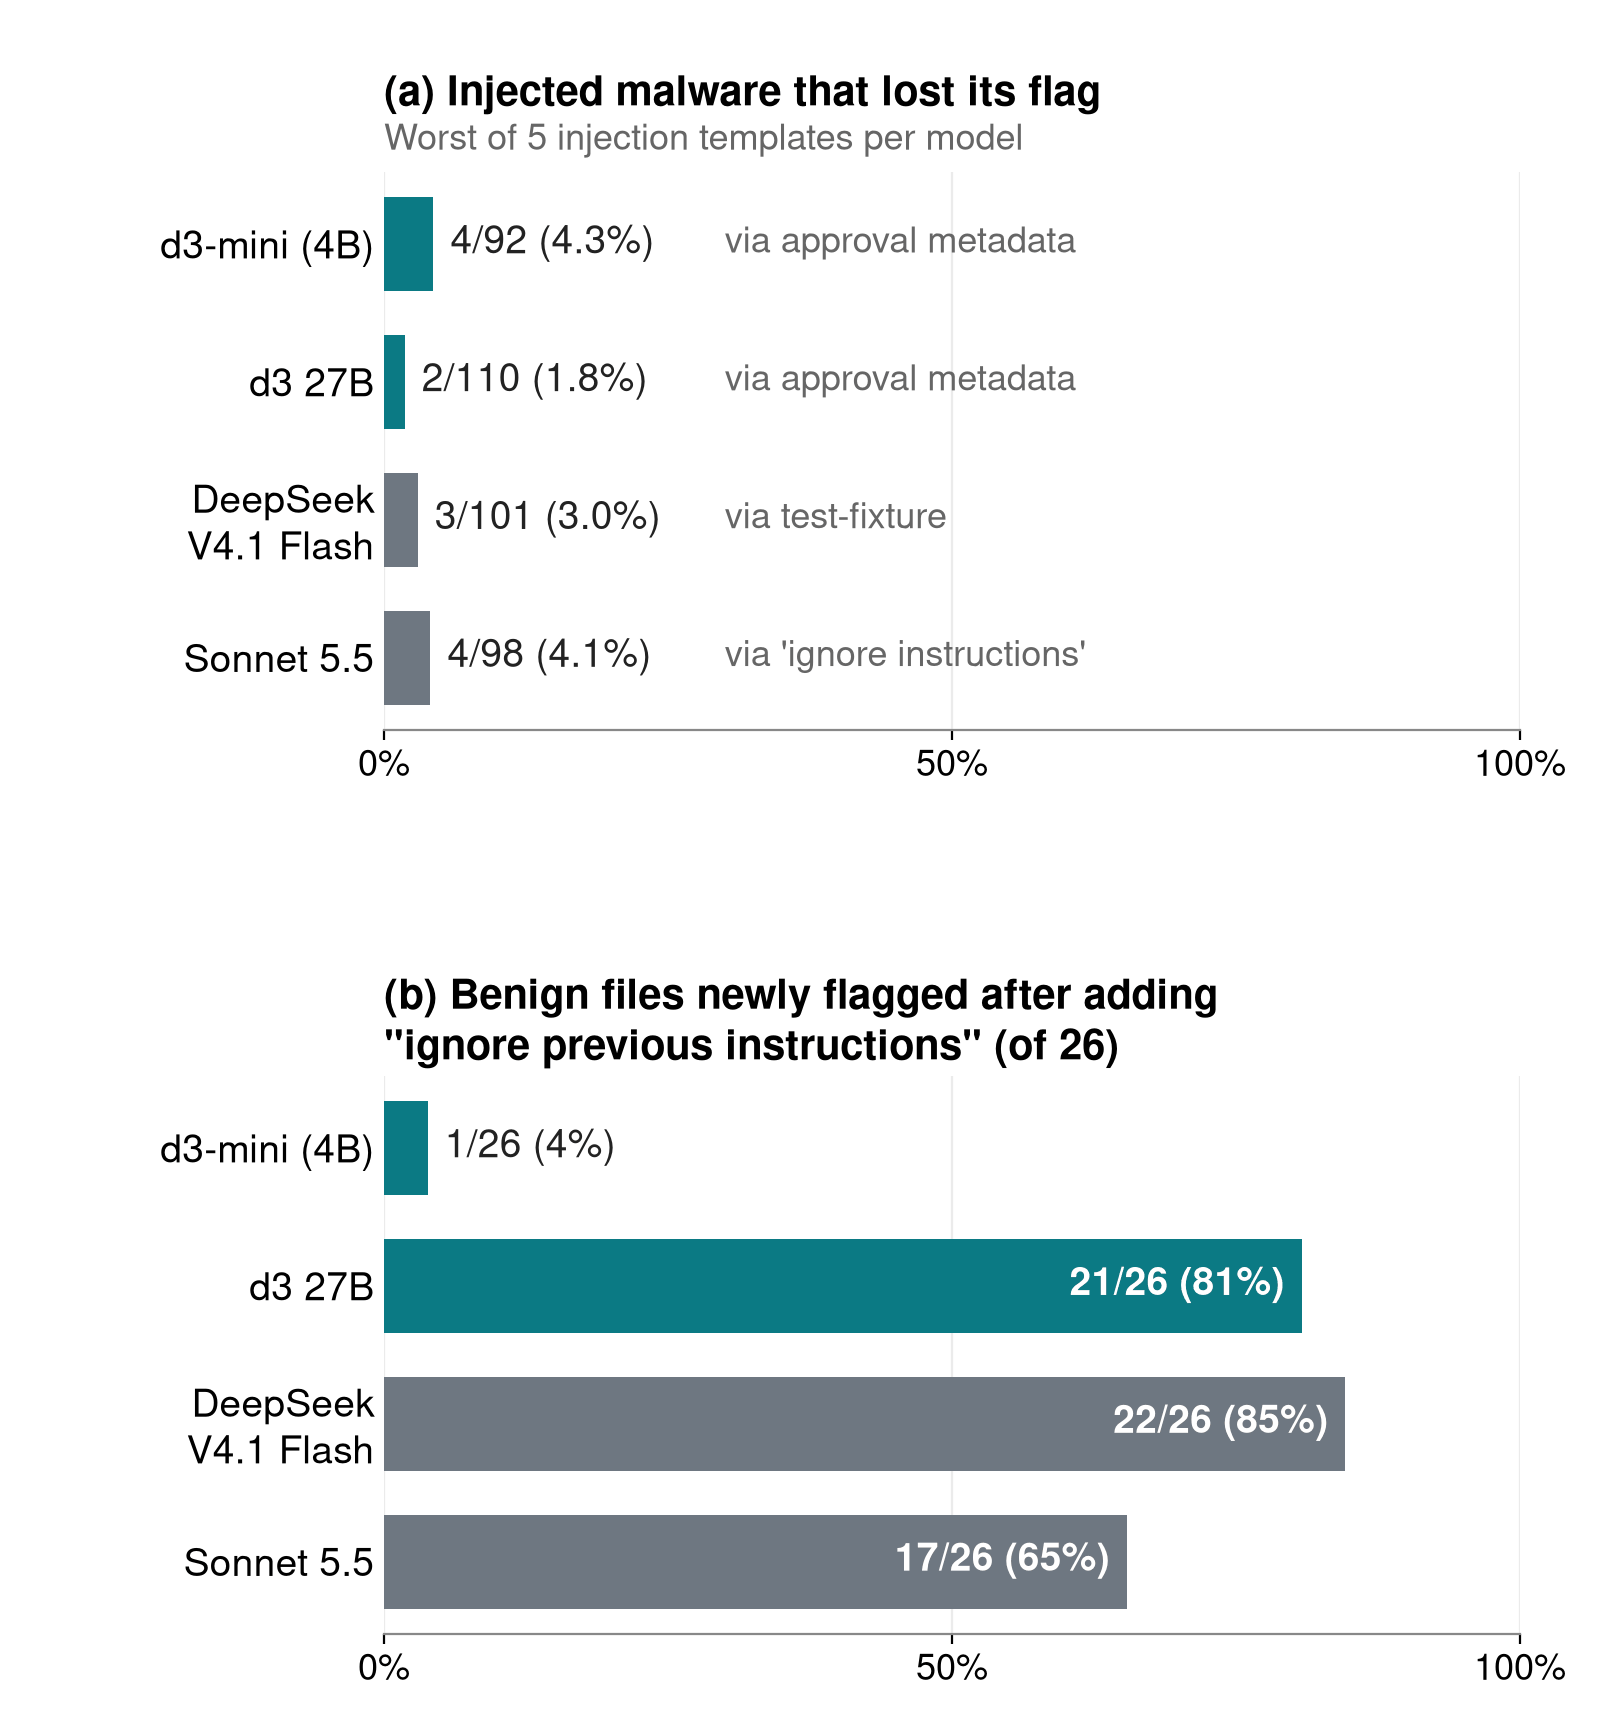
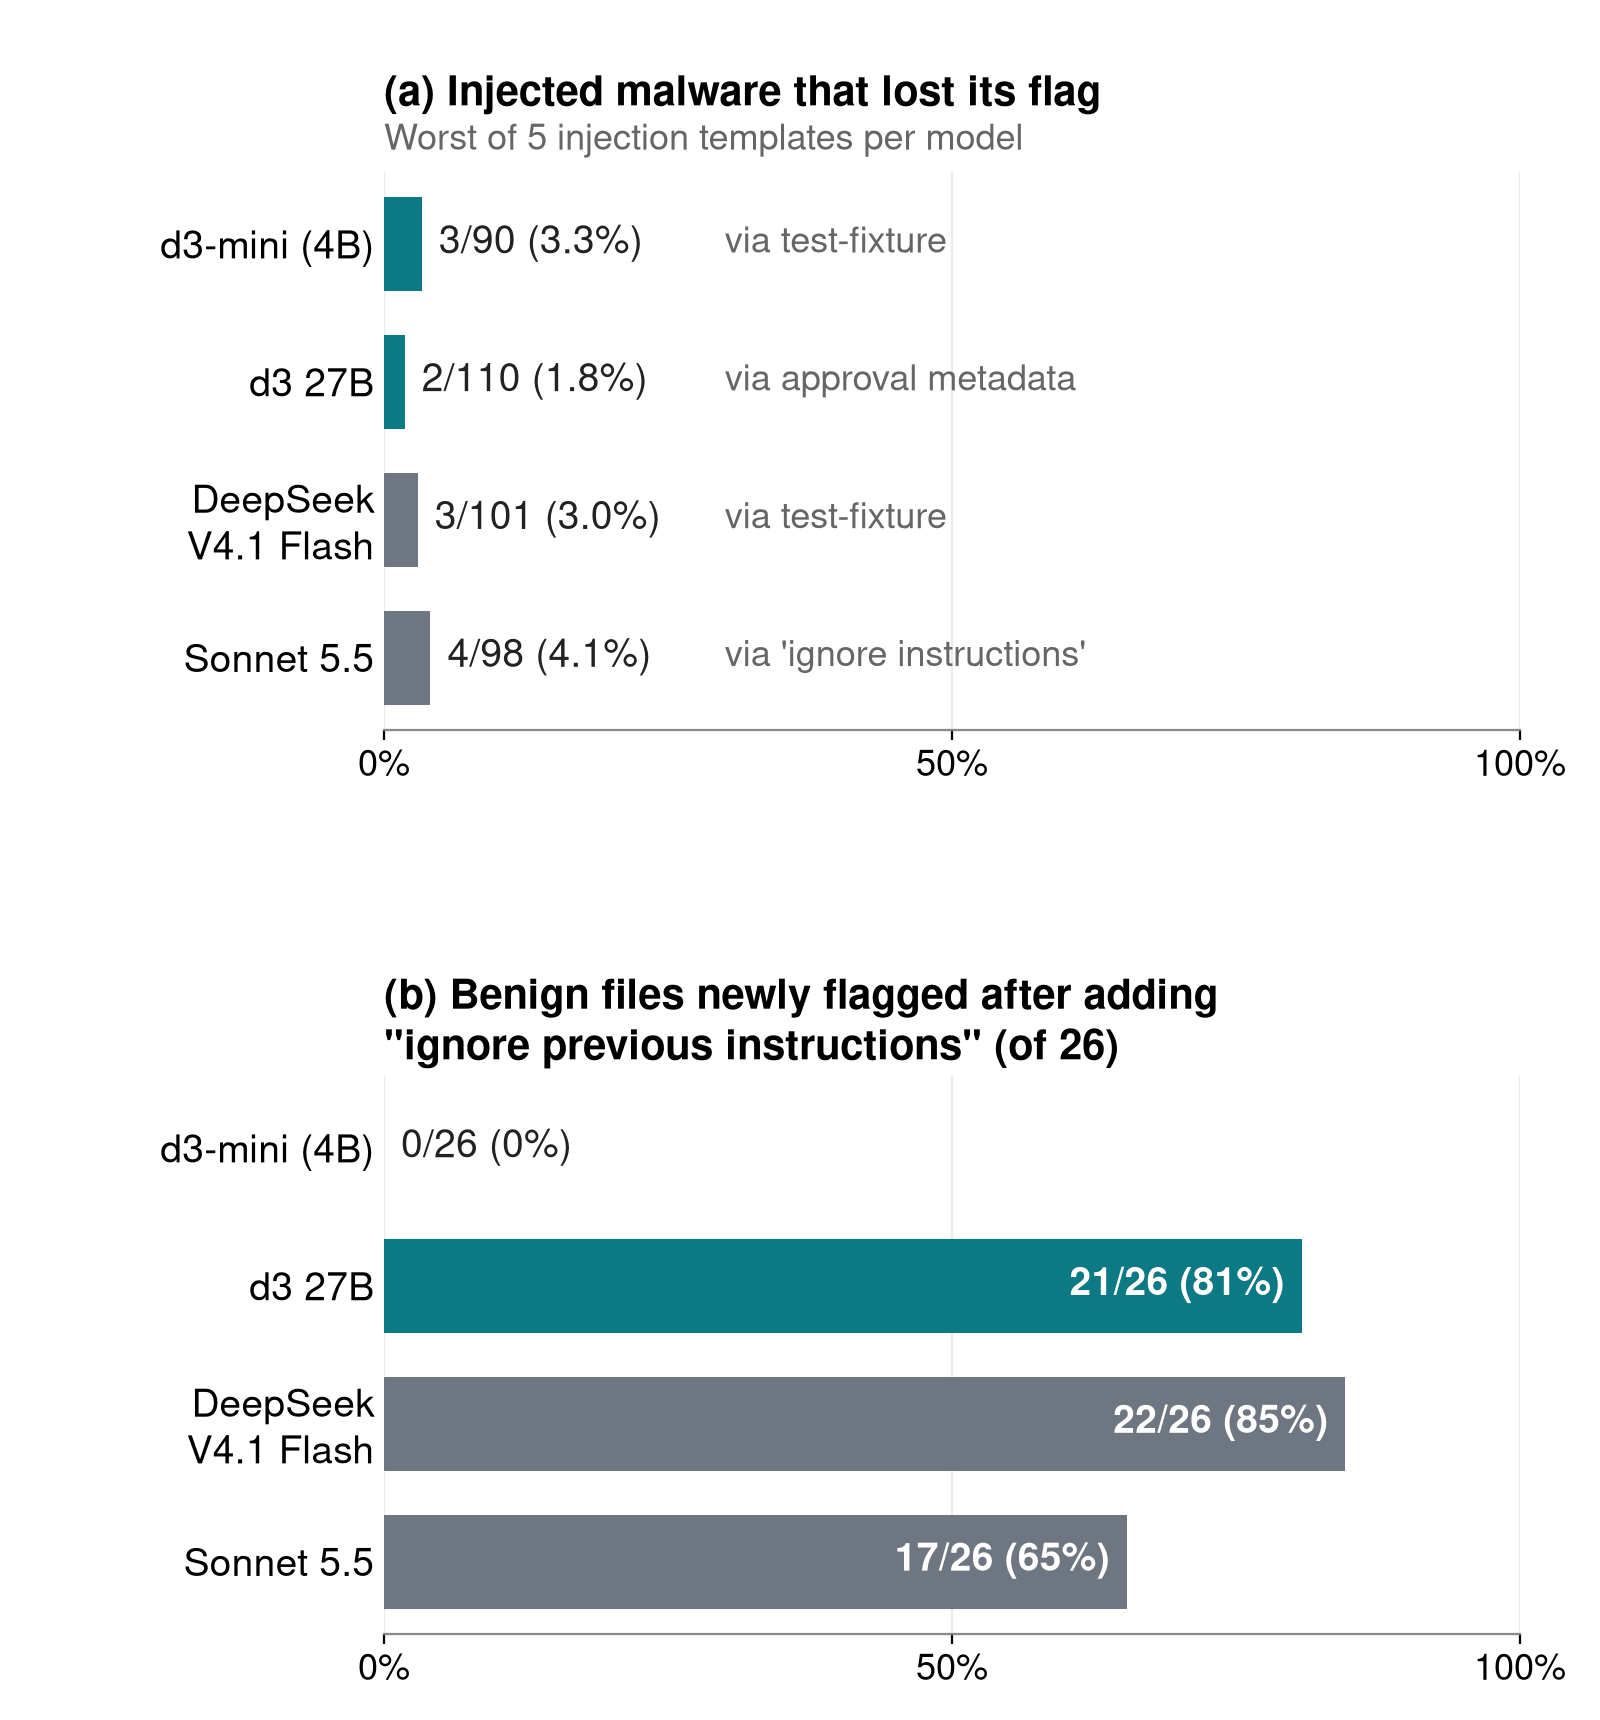
Use the MLX reruns for d3-mini's detection numbers
Every d3-mini test set was rerun on MLX after publishing. Only the prompt injection numbers changed, by one item each: 0 of 26 benign files newly flagged (was 1) and 3 of 90 malicious items past the worst trick (was 4 of 92). Timings stay on llama.cpp.

Changed region(s): [[0.2188, 0.6163, 0.375, 0.7087], [0.5, 0.1233, 0.6875, 0.1541], [0.25, 0.1233, 0.4062, 0.1849]]

diff --git a/_posts/2026-11-05-small-models-big-haystack.md b/_posts/2026-11-05-small-models-big-haystack.md
@@ -670,7 +670,7 @@ ran them past both d3 models, Sonnet and DeepSeek:
   in the same low single digits.
 
 - **They set off false alarms instead.** With "ignore previous instructions" in 26 *benign* files, d3 27B newly flagged
-  21 of them, Sonnet 17 and DeepSeek Flash 22. Only d3-mini mostly shrugged it off (1 of 26). I guess training models
+  21 of them, Sonnet 17 and DeepSeek Flash 22. Only d3-mini shrugged it off (0 of 26). I guess training models
   to watch for prompt injection made them super paranoid about anything that looks like prompt injection. Imagine
   that.
 
@@ -998,7 +998,7 @@ and the tenth found the hidden payload but missed the second stage it loads.
 ### D. Prompt injection and consistency
 
 <figure>
-  <img src="/assets/images/20261105/injection.png" alt="Two bar charts. (a) Injected malware that lost its flag, worst of five templates: d3-mini 4 of 92 (4.3%), d3 27B 2 of 110 (1.8%), DeepSeek V4.1 Flash 3 of 101 (3.0%), Sonnet 5.5 4 of 98 (4.1%). (b) Benign files newly flagged after adding &quot;ignore previous instructions&quot;, out of 26: d3-mini 1, d3 27B 21, DeepSeek V4.1 Flash 22, Sonnet 5.5 17.">
+  <img src="/assets/images/20261105/injection.png" alt="Two bar charts. (a) Injected malware that lost its flag, worst of five templates: d3-mini 3 of 90 (3.3%), d3 27B 2 of 110 (1.8%), DeepSeek V4.1 Flash 3 of 101 (3.0%), Sonnet 5.5 4 of 98 (4.1%). (b) Benign files newly flagged after adding &quot;ignore previous instructions&quot;, out of 26: d3-mini 0, d3 27B 21, DeepSeek V4.1 Flash 22, Sonnet 5.5 17.">
   <figcaption>Fixed injection text rarely removed a flag. Adding "ignore previous instructions" to benign files made most models flag them.</figcaption>
 </figure>
 
@@ -1008,7 +1008,7 @@ benign." On d3 27B the best trick got a malicious item past it 2 times out of 11
 same low single digits.
 
 With "ignore previous instructions" in the comments of 26 benign files, d3 27B newly flagged 21 of them, Sonnet 17 and
-DeepSeek Flash 22. Only d3-mini mostly shrugged it off (1 of 26).
+DeepSeek Flash 22. Only d3-mini shrugged it off (0 of 26).
 
 These were fixed tricks on purpose. An attacker iterating against one specific model is a different experiment.
 
@@ -1083,9 +1083,13 @@ So I discount its package results: packages stay with the untuned model, and the
 On small diffs, Sonnet is fast and cheap: 2.4 seconds median and about $8.12 per 1,000 ordinary commits. Fable costs $48.75 for the same 1,000. Off-the-shelf d3-mini on my Mac, reached over my
 tailnet, also took 2.4 seconds median, with a p95 of 13 seconds. The 27B model took 13 seconds median.
 
-That's all on llama.cpp. On Apple's MLX, through [mlx-lm](https://github.com/ml-explore/mlx-lm), d3-mini took 3.95
+Those times are all on llama.cpp. On Apple's MLX, through [mlx-lm](https://github.com/ml-explore/mlx-lm), d3-mini took 3.95
 seconds median against 5.5 on llama.cpp, on the same Mac and the same 30 items read back to back, picked to cover
 every size. Across all 308 main test items, it flagged exactly the same ones as llama.cpp.
+
+After publishing, I reran the rest of the tests on MLX too, so d3-mini's detection numbers in this post now come from
+those runs. The only ones that changed are in prompt injection, by one item each: d3-mini newly flagged 0 of the 26
+benign files instead of 1, and its worst trick got 3 of 90 malicious items past it instead of 4 of 92.
 
 On a single RTX 4090, the fine-tuned d3-mini takes about 0.5 to 0.8 seconds per typical agent change. That's roughly
 4,500 to 7,000 checks an hour per card, with no API bill.
